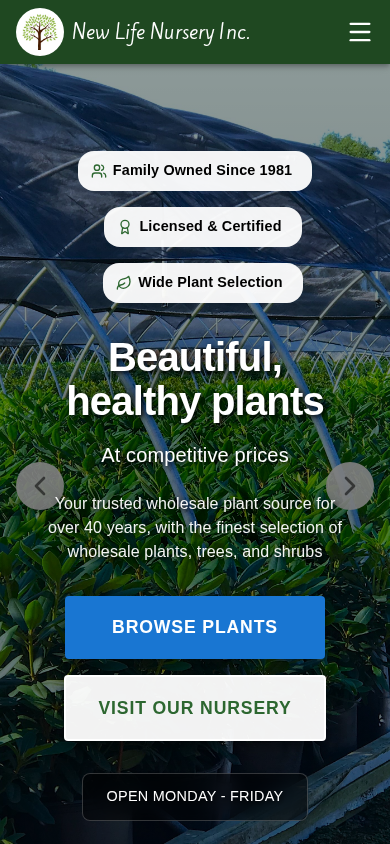
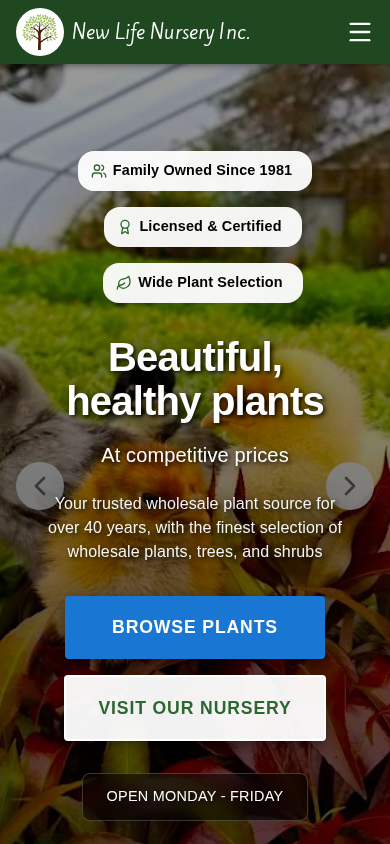
Isolate Lighthouse and redact CSRF evidence

diff --git a/packages/server/src/middleware/csrf.ts b/packages/server/src/middleware/csrf.ts
@@ -37,10 +37,7 @@ const csrfConfig = doubleCsrf({
             );
             return "temporary-csrf-secret-CHANGE-IN-PRODUCTION";
         }
-        logger.log(
-            LogLevel.debug,
-            `[CSRF] Secret read: ${secret.substring(0, 20)}... (length: ${secret.length})`
-        );
+        logger.log(LogLevel.debug, "CSRF secret is configured", { secretLength: secret.length });
         return secret;
     },
     cookieName: CSRF.CookieName,
@@ -173,12 +170,6 @@ export const csrfErrorHandler = (
             errorMessage: err.message,
             hasToken: !!req.headers[CSRF.HeaderName.toLowerCase()],
             hasCookie: !!req.cookies[CSRF.CookieName],
-            tokenValue: req.headers[CSRF.HeaderName.toLowerCase()]
-                ? `${String(req.headers[CSRF.HeaderName.toLowerCase()]).substring(0, 20)}...`
-                : "none",
-            cookieValue: req.cookies[CSRF.CookieName]
-                ? `${String(req.cookies[CSRF.CookieName]).substring(0, 20)}...`
-                : "none",
         });
 
         res.status(403).json({